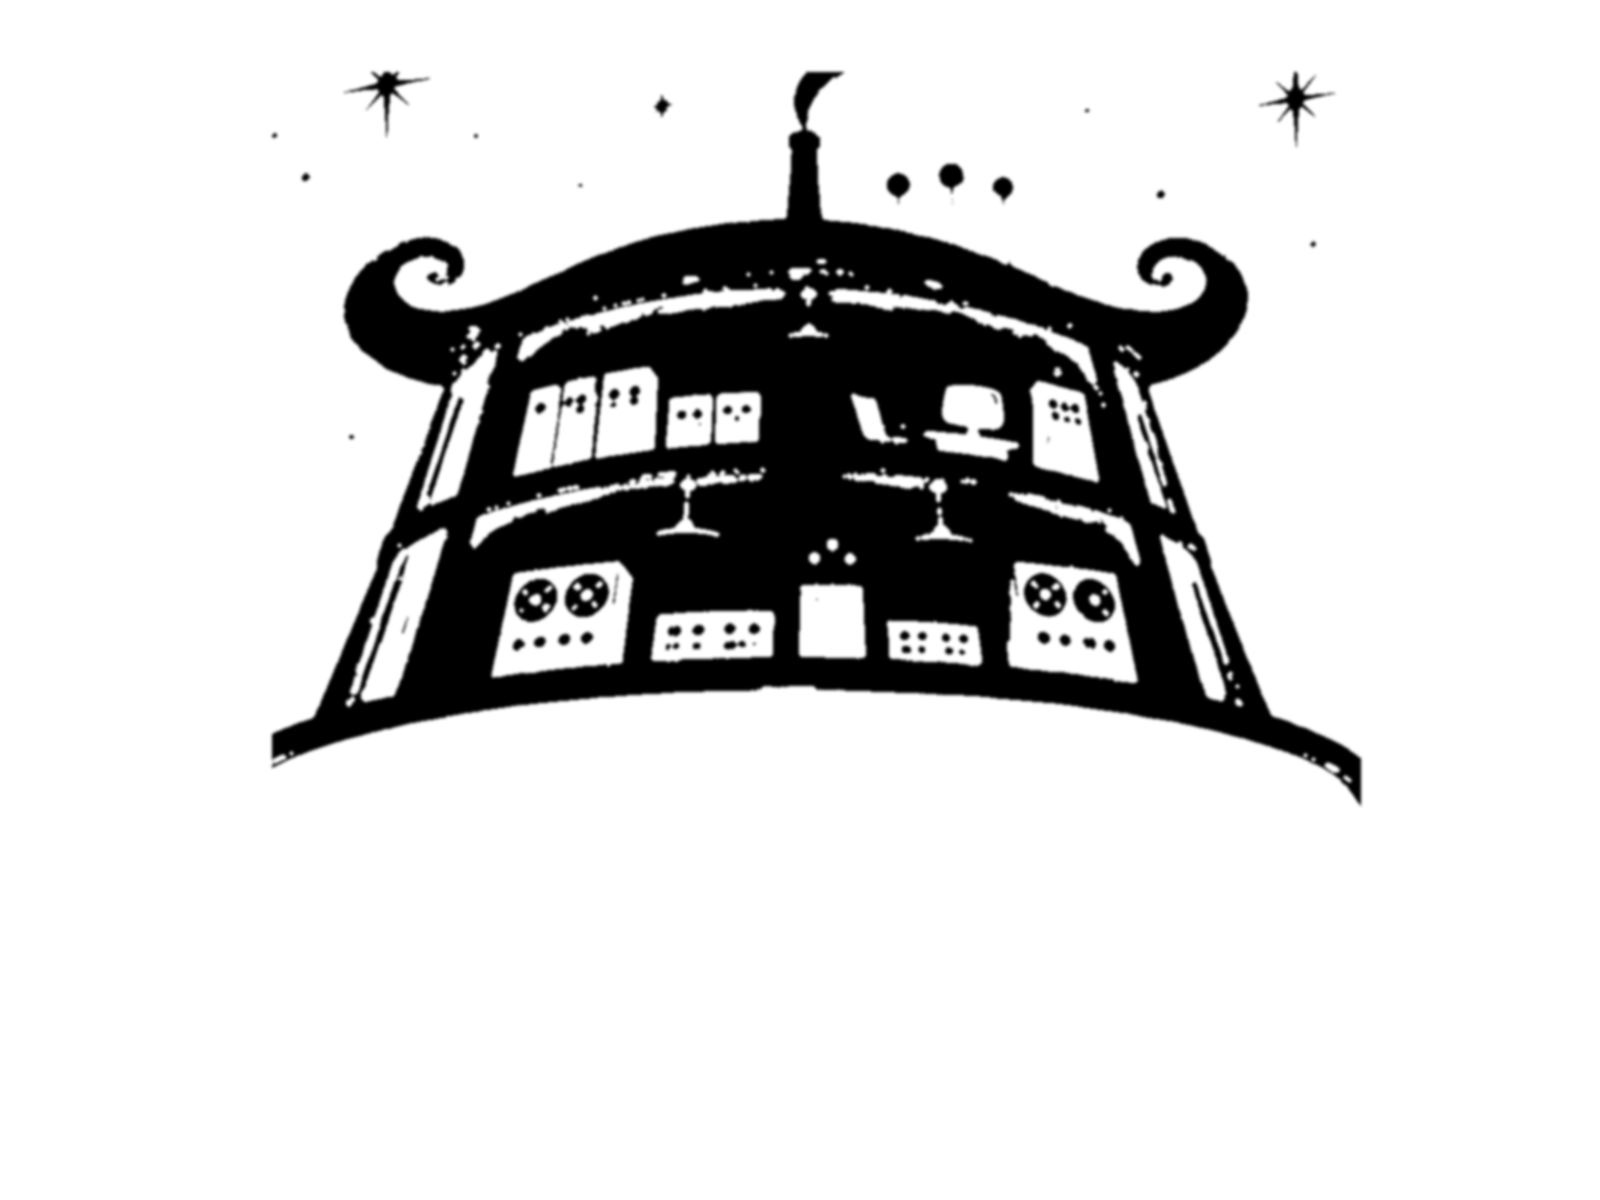
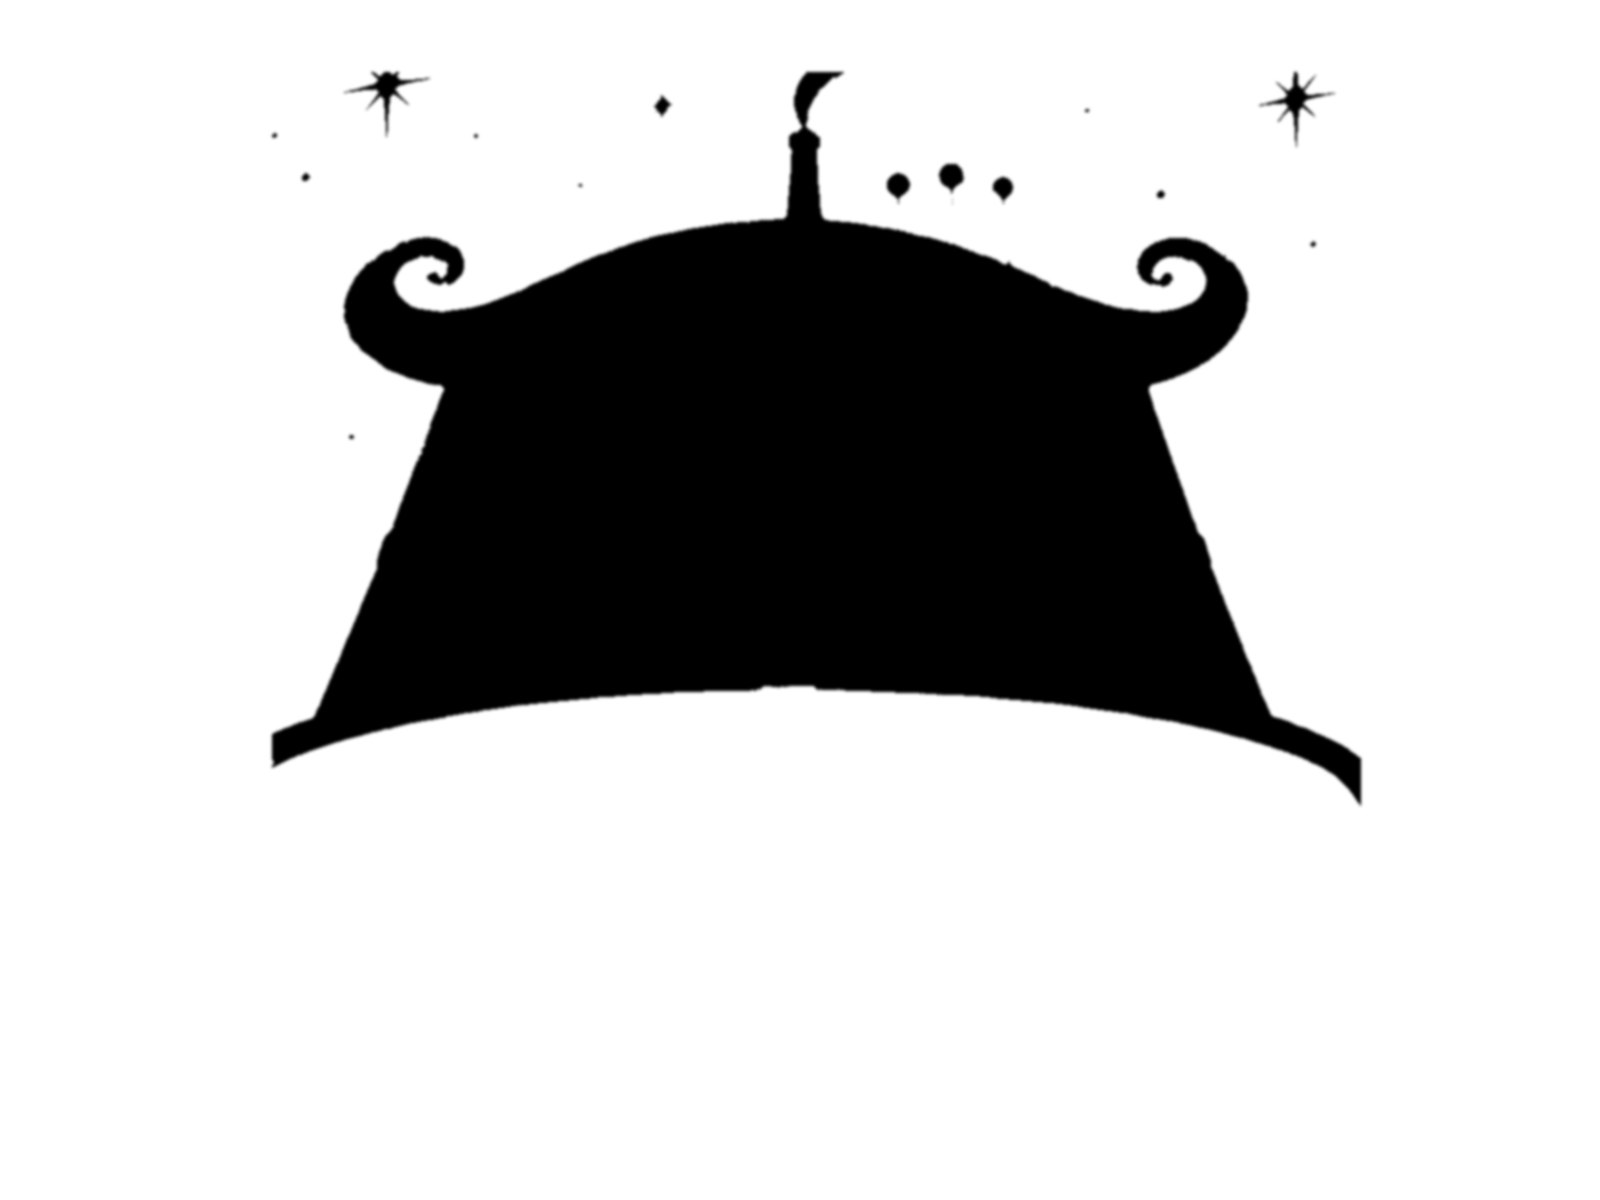
fix: 06 tower mask is a solid silhouette (its teal glass passed the sky test, so the horns showed through the windows)
Claude-Session: https://claude.ai/code/session_01J6uhv5fZTdhjSFtQW7A9Z2

Changed region(s): [[0.3125, 0.2158, 0.7812, 0.5858], [0.2188, 0.2775, 0.5, 0.5858], [0.8125, 0.6167, 0.8438, 0.6475]]

diff --git a/scripts/cut_plate_layers.py b/scripts/cut_plate_layers.py
@@ -65,6 +65,9 @@ sky = ndimage.binary_opening((b > r + 0.03) & (lum < 0.45), iterations=2)
 poly = json.loads(Path('docs/towers.json').read_text())['06']['poly']
 pm = Image.new('L', (st.shape[1], st.shape[0])); ImageDraw.Draw(pm).polygon([(x * st.shape[1], y * st.shape[0]) for x, y in poly], fill=255)
 keep = (np.asarray(pm) > 0) & ~sky
+# the tower's own teal glass and dark base also pass the sky test: fill every hole enclosed by the building so the
+# silhouette is solid (only open sky around it is cut away), else the horns behind show through the windows
+keep = ndimage.binary_fill_holes(ndimage.binary_closing(keep, iterations=3))
 a06 = Image.fromarray((keep * 255).astype('uint8')).filter(ImageFilter.GaussianBlur(1.5))   # CSS masks read ALPHA
 m06 = Image.new('RGBA', a06.size, (0, 0, 0, 0)); m06.putalpha(a06); m06.save('public/plates/06-towermask.png')
 idx_path.write_text(json.dumps(idx, indent=1) + '\n')
